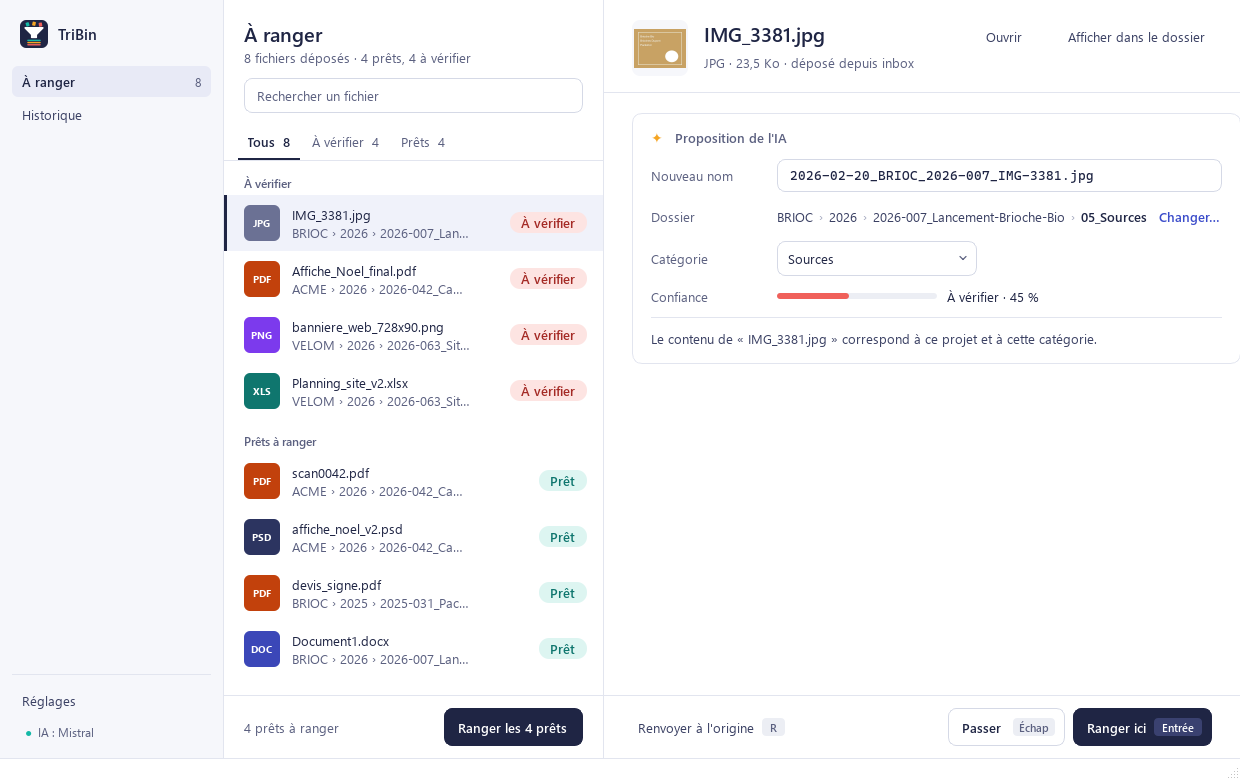
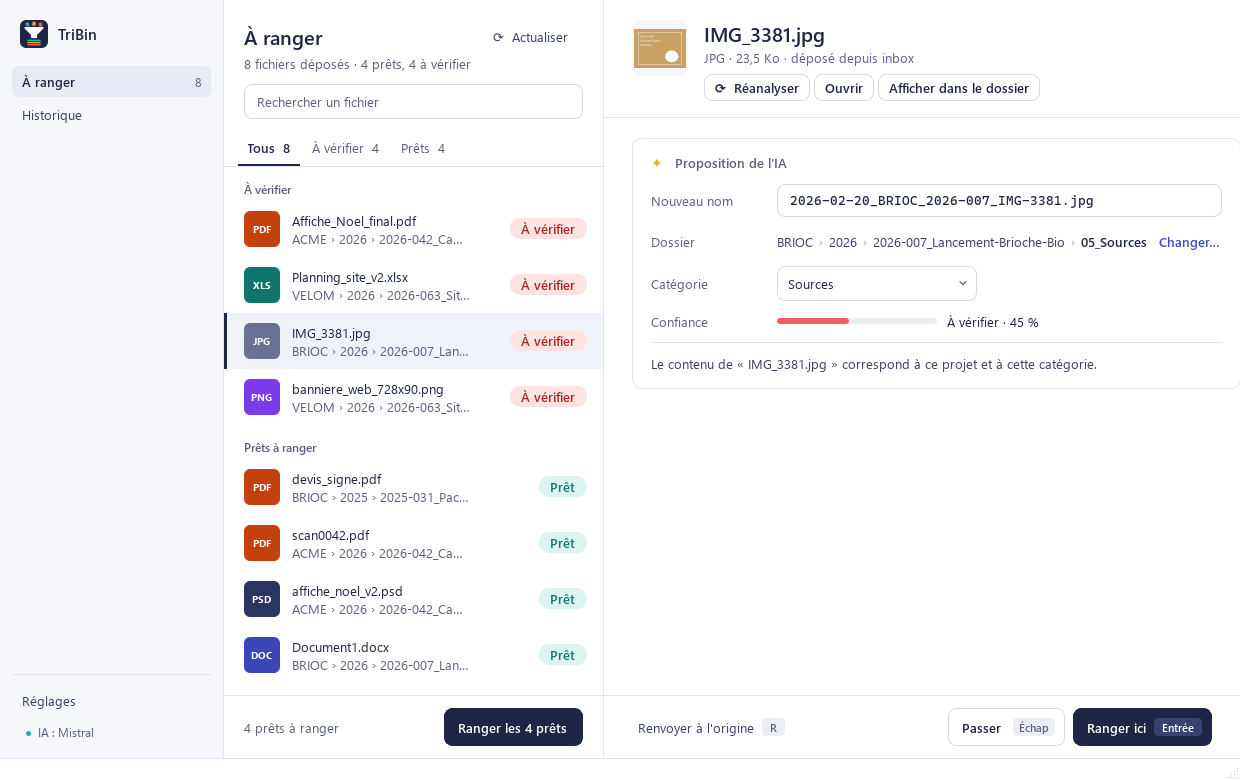
Actualiser (bouton et F5) et réanalyser un fichier
- « ⟳ Actualiser » en haut de la liste, et F5 (Cmd+R sur macOS) : relit
  la clé API et les réglages, relance l'analyse des fichiers restés sans
  proposition de l'IA, met à jour la liste et l'Historique.
- « ⟳ Réanalyser » sur le fichier sélectionné : nouvelle proposition de
  l'IA (les modifications en cours sont remplacées).
- Actions du fichier (Réanalyser, Ouvrir, Afficher dans le dossier)
  placées sous son nom, qui garde toute la largeur.

diff --git a/src/tribin/ui/bin_detail.py b/src/tribin/ui/bin_detail.py
@@ -73,6 +73,7 @@ class DetailPanel(QFrame):
     return_clicked = Signal()
     skip_clicked = Signal()
     browse_clicked = Signal()
+    reanalyze_clicked = Signal()
 
     def __init__(self) -> None:
         super().__init__()
@@ -101,14 +102,22 @@ class DetailPanel(QFrame):
         titles.addWidget(self.original)
         titles.addWidget(self.meta)
         top.addLayout(titles, 1)
+        # Actions sur le fichier, sous son nom (le nom garde toute la largeur)
+        tools = QHBoxLayout()
+        tools.setContentsMargins(0, 6, 0, 0)
+        tools.setSpacing(4)
+        self.reanalyze_button = QPushButton("⟳  Réanalyser")
+        self.reanalyze_button.setToolTip("Demander une nouvelle proposition à l'IA pour ce fichier")
+        self.reanalyze_button.clicked.connect(self.reanalyze_clicked)
         self.open_button = QPushButton("Ouvrir")
-        self.open_button.setObjectName("Ghost")
         self.open_button.clicked.connect(self._open_file)
         self.reveal_button = QPushButton("Afficher dans le dossier")
-        self.reveal_button.setObjectName("Ghost")
         self.reveal_button.clicked.connect(self._reveal_file)
-        top.addWidget(self.open_button, 0, Qt.AlignmentFlag.AlignTop)
-        top.addWidget(self.reveal_button, 0, Qt.AlignmentFlag.AlignTop)
+        for button in (self.reanalyze_button, self.open_button, self.reveal_button):
+            button.setObjectName("Small")
+            tools.addWidget(button)
+        tools.addStretch()
+        titles.addLayout(tools)
 
         # --- la proposition de l'IA ---
         content = QWidget()
@@ -305,7 +314,7 @@ class DetailPanel(QFrame):
             self.note.setText(notes[0] if notes else "")
             staged, original = Path(item.staged_path), Path(item.original_path)
             self.preview.setPixmap(thumbnail(staged, 52, 52))
-            self.original.setText(elided(original.name, self.original, 460, Qt.TextElideMode.ElideMiddle))
+            self.original.setText(elided(original.name, self.original, 520, Qt.TextElideMode.ElideMiddle))
             self.original.setToolTip(original.name)
             meta = [original.suffix[1:].upper() or "Fichier"]
             if staged.exists():
@@ -316,6 +325,7 @@ class DetailPanel(QFrame):
             self.name.setText(name)
             for widget in (self.name, self.browse, self.validate_button):
                 widget.setEnabled(ready)
+            self.reanalyze_button.setEnabled(item.status != "analyzing")
             self.set_folder(folder)
             self.pill.setText(level_text(item))
             self.bar.set_value(p.confidence if p and not p.manual else None, LEVEL_COLORS[key])

diff --git a/src/tribin/ui/bin_window.py b/src/tribin/ui/bin_window.py
@@ -79,6 +79,8 @@ class BinWindow(QMainWindow):
                           (Qt.Key.Key_Escape, self.skip), (Qt.Key.Key_R, self.return_selected)]:
             shortcut = QShortcut(QKeySequence(key), self)
             shortcut.activated.connect(lambda s=slot: self._shortcut(s))
+        refresh = QShortcut(QKeySequence(QKeySequence.StandardKey.Refresh), self)  # F5 (Cmd+R sur macOS)
+        refresh.activated.connect(self.c.refresh_all)
 
     # --- construction -------------------------------------------------------------------------
 
@@ -133,6 +135,7 @@ class BinWindow(QMainWindow):
         self.queue.setFixedWidth(380)
         self.queue.selection_changed.connect(self._selection_changed)
         self.queue.validate_all_clicked.connect(self.validate_all)
+        self.queue.refresh_clicked.connect(self.c.refresh_all)
         self.detail = DetailPanel()
         self.detail.edited.connect(self._detail_edited)
         self.detail.alternative_chosen.connect(self._apply_alternative)
@@ -140,6 +143,7 @@ class BinWindow(QMainWindow):
         self.detail.return_clicked.connect(self.return_selected)
         self.detail.skip_clicked.connect(self.skip)
         self.detail.browse_clicked.connect(self.pick_folder)
+        self.detail.reanalyze_clicked.connect(self.reanalyze_selected)
         body = QWidget()
         layout = QHBoxLayout(body)
         layout.setContentsMargins(0, 0, 0, 0)
@@ -317,6 +321,12 @@ class BinWindow(QMainWindow):
 
     def skip(self) -> None:
         self.queue.select_next()
+
+    def reanalyze_selected(self) -> None:
+        item = self.current_item()
+        if item:
+            self._edits.pop(item.file_id, None)  # la nouvelle proposition remplace les modifications en cours
+            self.c.reanalyze(item.file_id)
 
     def return_selected(self) -> None:
         item = self.current_item()

diff --git a/src/tribin/service/bin.py b/src/tribin/service/bin.py
@@ -4,10 +4,10 @@ from __future__ import annotations
 
 import logging
 import threading
-from dataclasses import dataclass, field
+from dataclasses import dataclass, field, replace
 from pathlib import Path
 
-from tribin.config import STAGING_DIRNAME, Settings, is_within
+from tribin.config import STAGING_DIRNAME, Settings, is_within, read_api_key
 from tribin.convention.loader import Convention, ConventionError, load_convention
 from tribin.db import Database
 from tribin.engine.context import make_context
@@ -230,6 +230,22 @@ class BinService:
                 self.queue.set_status(item.file_id, "analyzing")
                 ids.append(item.file_id)
         return ids
+
+    def reload(self) -> None:
+        """« Actualiser » : relit la clé API (trousseau, .env), la convention et les réglages."""
+        key = read_api_key(self.settings.provider)
+        if key:
+            self.settings = replace(self.settings, api_key=key)
+        with self._lock:
+            self._contexts.clear()
+            self._convention = None
+
+    def reanalyze(self, file_id: str) -> None:
+        """Demande une nouvelle proposition pour ce fichier (il repasse « en analyse »)."""
+        item = self.queue.get(file_id)
+        if item is None or item.status == "done":
+            raise BinError("Fichier introuvable dans la file d'attente.")
+        self.queue.set_status(file_id, "analyzing")
 
     def recover(self) -> list[QueueItem]:
         """Au lancement : fichiers dont l'analyse a été interrompue (à relancer)."""

diff --git a/tests/test_ui.py b/tests/test_ui.py
@@ -335,3 +335,30 @@ def test_api_key_field_shows_saved_key_clearly(qapp):
     field.set_provider("Gemini", "aistudio.google.com", None)
     assert field.editor.isVisibleTo(field) and not field.status.isVisibleTo(field)
     assert "aistudio.google.com" in field.hint.text()
+
+
+def test_refresh_button_and_reanalyze(qapp, controller):
+    from tribin.llm.base import LLMError
+
+    svc = controller.service
+    working = svc._provider_factory
+
+    def no_key(settings, model=None):
+        raise LLMError("Clé API manquante")
+
+    svc._provider_factory = no_key
+    svc.reload()
+    controller.drop_paths([controller.sb / "inbox" / "scan0042.pdf"])
+    assert wait(qapp, lambda: any(i.status == "ready" and i.proposal and i.proposal.manual for i in svc.pending()))
+
+    svc._provider_factory = working  # la clé vient d'être ajoutée
+    controller.refresh_queue()
+    controller.bin_window.queue.refresh_button.click()
+    assert wait(qapp, lambda: ready_items(controller, 1) and not svc.pending()[0].proposal.manual)
+    assert "Actualisé" in controller.bin_window.statusBar().currentMessage()
+
+    controller.refresh_queue()
+    win = controller.bin_window
+    win.select_file(svc.pending()[0].file_id)
+    win.detail.reanalyze_button.click()
+    assert wait(qapp, lambda: ready_items(controller, 1) and svc.pending()[0].proposal is not None)

diff --git a/src/tribin/ui/app.py b/src/tribin/ui/app.py
@@ -239,6 +239,27 @@ class AppController:
             self.retry_without_ai()
             self.refresh_queue()
 
+    def refresh_all(self) -> None:
+        """« Actualiser » (bouton, F5) : relit clé et réglages, relance les analyses restées sans IA,
+        met à jour la liste et l'Historique."""
+        self.service.reload()
+        retried = self.service.retry_without_ai()
+        for file_id in retried:
+            self._analyze(file_id)
+        self.refresh_queue()
+        if self.bin_window.pages.currentWidget() is self.bin_window.history:
+            self.bin_window.history.reload()
+        self.bin_window.statusBar().showMessage(
+            f"Actualisé : {len(retried)} fichier{'s' if len(retried) > 1 else ''} relancé{'s' if len(retried) > 1 else ''}"
+            " en analyse." if retried else "Actualisé.", 5000)
+
+    def reanalyze(self, file_id: str) -> None:
+        """« Réanalyser » : nouvelle proposition de l'IA pour ce fichier."""
+        self.service.reload()
+        self.service.reanalyze(file_id)
+        self.refresh_queue()
+        self._analyze(file_id)
+
     def retry_without_ai(self) -> None:
         """Nouvelle clé ou nouveau fournisseur : relance l'analyse des fichiers « à traiter à la main »."""
         for file_id in self.service.retry_without_ai():

diff --git a/src/tribin/ui/queue_panel.py b/src/tribin/ui/queue_panel.py
@@ -80,6 +80,7 @@ class QueueRow(QFrame):
 class QueuePanel(QFrame):
     selection_changed = Signal(str)
     validate_all_clicked = Signal()
+    refresh_clicked = Signal()
 
     def __init__(self) -> None:
         super().__init__()
@@ -97,9 +98,17 @@ class QueuePanel(QFrame):
         top.setSpacing(2)
         title = QLabel("À ranger")
         title.setObjectName("Title")
+        self.refresh_button = QPushButton("⟳  Actualiser")
+        self.refresh_button.setObjectName("Ghost")
+        self.refresh_button.setToolTip("Relit la clé API et les réglages, relance les analyses restées sans IA (F5)")
+        self.refresh_button.clicked.connect(self.refresh_clicked)
+        title_row = QHBoxLayout()
+        title_row.addWidget(title)
+        title_row.addStretch()
+        title_row.addWidget(self.refresh_button)
         self.summary = QLabel()
         self.summary.setObjectName("Muted")
-        top.addWidget(title)
+        top.addLayout(title_row)
         top.addWidget(self.summary)
         top.addSpacing(10)
         self.search = QLineEdit()

diff --git a/README.md b/README.md
@@ -119,7 +119,7 @@ le **rangement automatique** (désactivé par défaut) range tout seul les fichi
 moins 80 %) ; les autres font l'objet d'une notification qui ouvre TriBin. Un fichier qui demanderait la création d'un
 dossier attend toujours votre accord, et tout s'annule depuis l'Historique.
 
-Dans la fenêtre principale : `Entrée` ranger, `E` modifier le nom, `A` autre possibilité, `Échap` passer, `R` renvoyer à l'origine.
+Dans la fenêtre principale : `Entrée` ranger, `E` modifier le nom, `A` autre possibilité, `Échap` passer, `R` renvoyer à l'origine, `F5` actualiser (relit la clé et les réglages, relance les analyses restées sans IA).
 Chaque rangement s'annule depuis l'Historique.
 
 ## Ligne de commande
